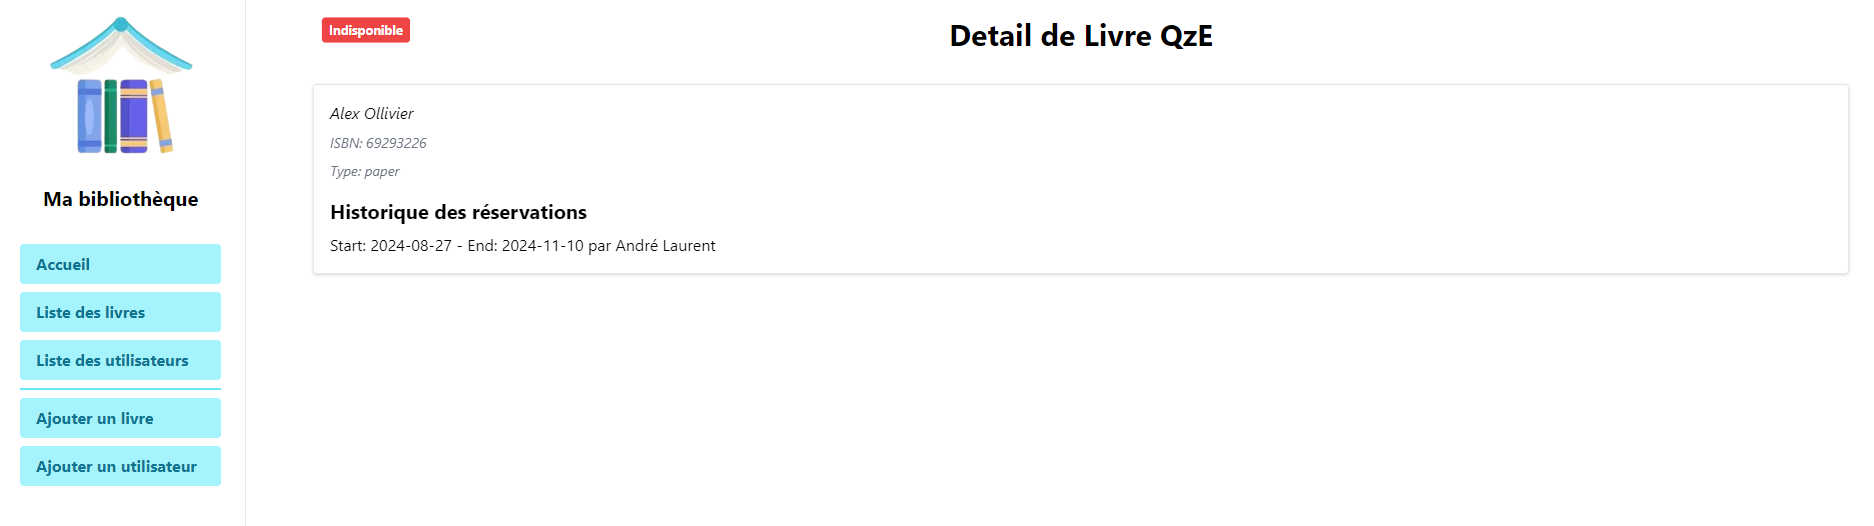
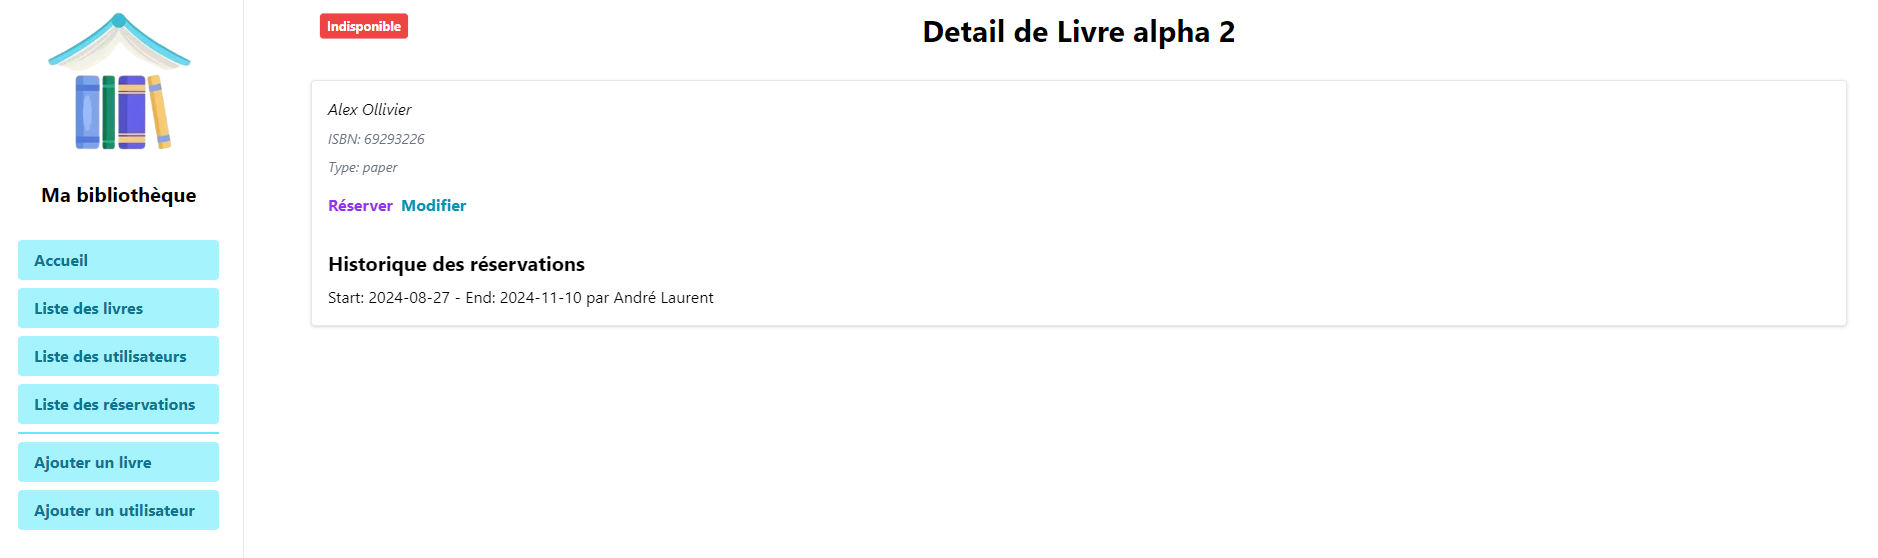
update

diff --git a/templates/list-movement.html b/templates/list-movement.html
@@ -24,6 +24,10 @@
                         </th>
                         <th class="px-6 py-3 text-left text-xs font-medium text-gray-500 uppercase tracking-wider"
                             scope="col">
+                            Livre
+                        </th>
+                        <th class="px-6 py-3 text-left text-xs font-medium text-gray-500 uppercase tracking-wider"
+                            scope="col">
                             Actions
                         </th>
                     </tr>
@@ -40,6 +44,9 @@
                         <td class="px-6 py-4 whitespace-nowrap">
                             <a class="hover:underline" href="/detail-user/{{ movement.user.id }}">{{
                                 movement.user.first_name }} {{ movement.user.last_name }}</a>
+                        </td>
+                        <td class="px-6 py-4 whitespace-nowrap">
+                            <a class="hover:underline" href="/detail-book/{{ movement.isbn }}">{{ movement.book.title }}</a>
                         </td>
                         <td class="px-6 py-4 whitespace-nowrap">
                             <a class="text-red-500 hover:text-red-800"

diff --git a/templates/book/detail-book.html b/templates/book/detail-book.html
@@ -18,7 +18,10 @@
             <span class="italic text-sm text-gray-500">ISBN: {{ book.isbn }}</span>
             <span class="italic text-sm text-gray-500">Type: {{ book.book_type }}</span>
         </div>
-        <a href="/reserve-book/{{ book.isbn }}" class="text-cyan-600 font-bold hover:underline">Réserver</a>
+        <div class="flex gap-2">
+            <a href="/reserve-book/{{ book.isbn }}" class="text-purple-600 font-bold hover:underline">Réserver</a>
+            <a href="/update-book?isbn={{ book.isbn }}&title={{ book.title }}&author={{ book.author }}&book_type={{ book.book_type }}" class="text-cyan-600 font-bold hover:underline">Modifier</a>
+        </div>
         <ul>
             {% if movements %}
             <li class="font-bold text-xl mt-4 mb-2">Historique des réservations</li>
